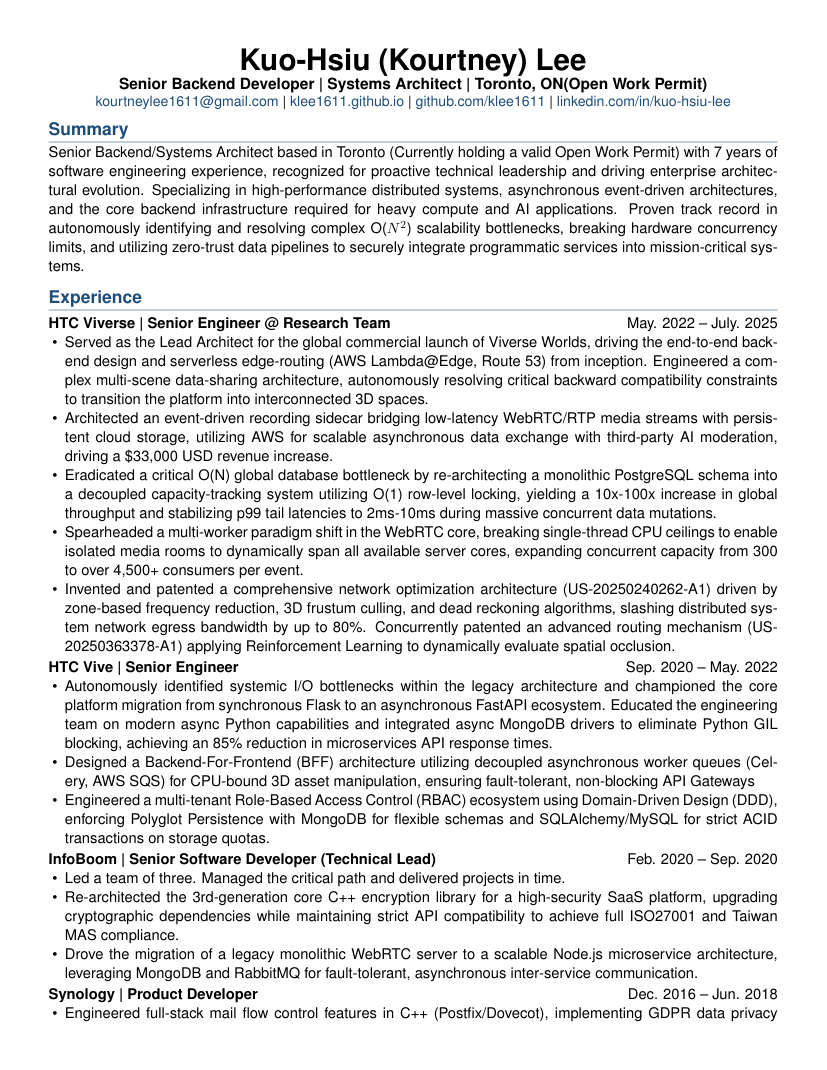
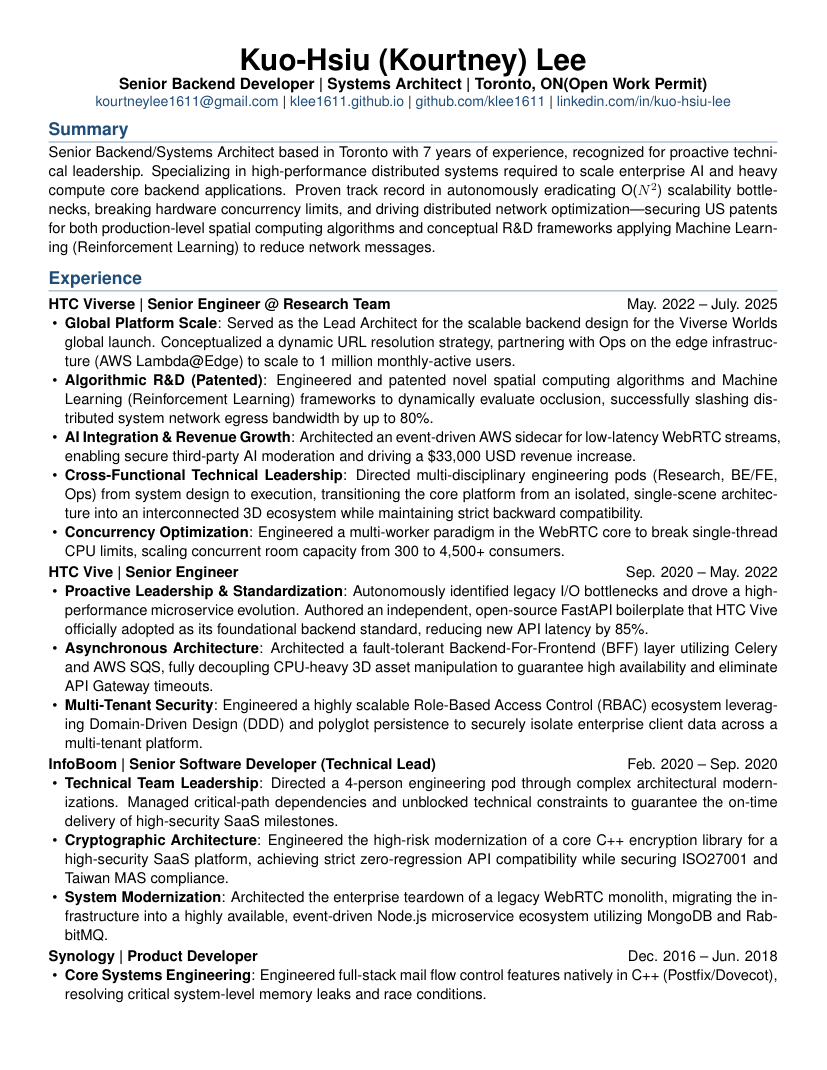
Update resume content

Changed region(s): [[0.0605, 0.1234, 0.9371, 0.9561]]

diff --git a/resume/sections/experience.tex b/resume/sections/experience.tex
@@ -1,28 +1,29 @@
 \section{Experience}
+
 \ResumeSimpleEntry{HTC Viverse \textbar{} Senior Engineer @ Research Team}{May. 2022 -- July. 2025}
 \begin{resumeitems}
-\item Served as the Lead Architect for the global commercial launch of Viverse Worlds, driving the end-to-end backend design and serverless edge-routing (AWS Lambda@Edge, Route 53) from inception. Engineered a complex multi-scene data-sharing architecture, autonomously resolving critical backward compatibility constraints to transition the platform into interconnected 3D spaces.
-\item Architected an event-driven recording sidecar bridging low-latency WebRTC/RTP media streams with persistent cloud storage, utilizing AWS for scalable asynchronous data exchange with third-party AI moderation, driving a \$33,000 USD revenue increase.
-\item Eradicated a critical O(N) global database bottleneck by re-architecting a monolithic PostgreSQL schema into a decoupled capacity-tracking system utilizing O(1) row-level locking, yielding a 10x-100x increase in global throughput and stabilizing p99 tail latencies to 2ms-10ms during massive concurrent data mutations.
-\item Spearheaded a multi-worker paradigm shift in the WebRTC core, breaking single-thread CPU ceilings to enable isolated media rooms to dynamically span all available server cores, expanding concurrent capacity from 300 to over 4,500+ consumers per event.
-\item Invented and patented a comprehensive network optimization architecture (US-20250240262-A1) driven by zone-based frequency reduction, 3D frustum culling, and dead reckoning algorithms, slashing distributed system network egress bandwidth by up to 80\%. Concurrently patented an advanced routing mechanism (US-20250363378-A1) applying Reinforcement Learning to dynamically evaluate spatial occlusion.
+\item \textbf{Global Platform Scale}: Served as the Lead Architect for the scalable backend design for the Viverse Worlds global launch. Conceptualized a dynamic URL resolution strategy, partnering with Ops on the edge infrastructure (AWS Lambda@Edge) to scale to 1 million monthly-active users.
+\item \textbf{Algorithmic R\&D (Patented)}: Engineered and patented novel spatial computing algorithms and Machine Learning (Reinforcement Learning) frameworks to dynamically evaluate occlusion, successfully slashing distributed system network egress bandwidth by up to 80\%.
+\item \textbf{AI Integration \& Revenue Growth}: Architected an event-driven AWS sidecar for low-latency WebRTC streams, enabling secure third-party AI moderation and driving a \$33,000 USD revenue increase.
+\item \textbf{Cross-Functional Technical Leadership}: Directed multi-disciplinary engineering pods (Research, BE/FE, Ops) from system design to execution, transitioning the core platform from an isolated, single-scene architecture into an interconnected 3D ecosystem while maintaining strict backward compatibility.
+\item \textbf{Concurrency Optimization}: Engineered a multi-worker paradigm in the WebRTC core to break single-thread CPU limits, scaling concurrent room capacity from 300 to 4,500+ consumers.
 \end{resumeitems}
 
 \ResumeSimpleEntry{HTC Vive \textbar{} Senior Engineer}{Sep. 2020 -- May. 2022}
 \begin{resumeitems}
-\item Autonomously identified systemic I/O bottlenecks within the legacy architecture and championed the core platform migration from synchronous Flask to an asynchronous FastAPI ecosystem. Educated the engineering team on modern async Python capabilities and integrated async MongoDB drivers to eliminate Python GIL blocking, achieving an 85\% reduction in microservices API response times.
-\item Designed a Backend-For-Frontend (BFF) architecture utilizing decoupled asynchronous worker queues (Celery, AWS SQS) for CPU-bound 3D asset manipulation, ensuring fault-tolerant, non-blocking API Gateways
-\item Engineered a multi-tenant Role-Based Access Control (RBAC) ecosystem using Domain-Driven Design (DDD), enforcing Polyglot Persistence with MongoDB for flexible schemas and SQLAlchemy/MySQL for strict ACID transactions on storage quotas.
+\item \textbf{Proactive Leadership \& Standardization}: Autonomously identified legacy I/O bottlenecks and drove a high-performance microservice evolution. Authored an independent, open-source FastAPI boilerplate that HTC Vive officially adopted as its foundational backend standard, reducing new API latency by 85\%.
+\item \textbf{Asynchronous Architecture}: Architected a fault-tolerant Backend-For-Frontend (BFF) layer utilizing Celery and AWS SQS, fully decoupling CPU-heavy 3D asset manipulation to guarantee high availability and eliminate API Gateway timeouts.
+\item \textbf{Multi-Tenant Security}: Engineered a highly scalable Role-Based Access Control (RBAC) ecosystem leveraging Domain-Driven Design (DDD) and polyglot persistence to securely isolate enterprise client data across a multi-tenant platform.
 \end{resumeitems}
 
 \ResumeSimpleEntry{InfoBoom \textbar{} Senior Software Developer (Technical Lead)}{Feb. 2020 -- Sep. 2020}
 \begin{resumeitems}
-\item Led a team of three. Managed the critical path and delivered projects in time.
-\item Re-architected the 3rd-generation core C++ encryption library for a high-security SaaS platform, upgrading cryptographic dependencies while maintaining strict API compatibility to achieve full ISO27001 and Taiwan MAS compliance.
-\item Drove the migration of a legacy monolithic WebRTC server to a scalable Node.js microservice architecture, leveraging MongoDB and RabbitMQ for fault-tolerant, asynchronous inter-service communication.
+\item \textbf{Technical Team Leadership}: Directed a 4-person engineering pod through complex architectural modernizations. Managed critical-path dependencies and unblocked technical constraints to guarantee the on-time delivery of high-security SaaS milestones.
+\item \textbf{Cryptographic Architecture}: Engineered the high-risk modernization of a core C++ encryption library for a high-security SaaS platform, achieving strict zero-regression API compatibility while securing ISO27001 and Taiwan MAS compliance.
+\item \textbf{System Modernization}: Architected the enterprise teardown of a legacy WebRTC monolith, migrating the infrastructure into a highly available, event-driven Node.js microservice ecosystem utilizing MongoDB and RabbitMQ.
 \end{resumeitems}
 
 \ResumeSimpleEntry{Synology \textbar{} Product Developer}{Dec. 2016 -- Jun. 2018}
 \begin{resumeitems}
-\item Engineered full-stack mail flow control features in C++ (Postfix/Dovecot), implementing GDPR data privacy mechanisms and resolving critical system-level memory leaks and race conditions.
+\item \textbf{Core Systems Engineering}: Engineered full-stack mail flow control features natively in C++ (Postfix/Dovecot), resolving critical system-level memory leaks and race conditions.
 \end{resumeitems}

diff --git a/resume/sections/honors_projects_certifications.tex b/resume/sections/honors_projects_certifications.tex
@@ -1,18 +1,11 @@
 \section{Honors, Projects \& Certifications}
+
 \ResumeSimpleEntry{\href{https://github.com/klee1611/iron-counsel}{Iron Counsel}}{2026}
 \begin{resumeitems}
-  \item Architected an end-to-end Retrieval-Augmented Generation (RAG) backend utilizing LangChain and GCP Firestore's native KNN vector search (384-dimensional embeddings). Engineered a zero-touch CI/CD deployment lifecycle via Terraform and GitHub Actions, automatically building and deploying containerized microservices via GCP Artifact Registry to highly scalable Cloud Run environments.
+  \item Architected an serverless Retrieval-Augmented Generation (RAG) backend utilizing LangChain and GCP Firestore's native KNN vector search (384-dimensional embeddings). Engineered a zero-touch CI/CD deployment lifecycle via Terraform and GitHub Actions, automatically building and deploying containerized microservices via GCP Artifact Registry to highly scalable Cloud Run environments.
 \end{resumeitems}
+
 \ResumeSimpleEntry{Runner-up - HTC Viverse internal AI hackathon}{2023}
 \begin{resumeitems}
-  \item Built an AI-powered customizable NPC system that allows users to define a character's personality, behaviors, and interaction style, then seamlessly deploy the NPC into a metaverse environment.
-\end{resumeitems}
-\ResumeSimpleEntry{\href{https://github.com/klee1611/cookiecutter-fastapi-mongo}{Enterprise FastAPI Boilerplate}}{2021}
-\begin{resumeitems}
-  \item Architected a high-performance, asynchronous RESTful microservice template (FastAPI, Motor, uv) adopted as the foundational backend standard at HTC Vive (16+ GitHub Stars).
-\end{resumeitems}
-\ResumeSimpleEntry{\href{https://www.coursera.org/account/accomplishments/verify/J8NTU2NSSRFR}{Machine Learning - Stanford University \textbar{} Coursera}}{2019}
-\ResumeSimpleEntry{\href{https://github.com/klee1611/leetcode-srs}{LeetCode SRS}}{2026}
-\begin{resumeitems}
-  \item Personal Spaced Repetition System integrating modern AI agent workflows and the Model Context Protocol (MCP).
+  \item Built an AI-powered customizable NPC system enabling dynamic personality and behavioral generation for seamless deployment into metaverse spatial environments.
 \end{resumeitems}

diff --git a/resume/sections/summary.tex b/resume/sections/summary.tex
@@ -1,2 +1,2 @@
 \section{Summary}
-Senior Backend/Systems Architect based in Toronto (Currently holding a valid Open Work Permit) with 7 years of software engineering experience, recognized for proactive technical leadership and driving enterprise architectural evolution. Specializing in high-performance distributed systems, asynchronous event-driven architectures, and the core backend infrastructure required for heavy compute and AI applications. Proven track record in autonomously identifying and resolving complex O($N^2$) scalability bottlenecks, breaking hardware concurrency limits, and utilizing zero-trust data pipelines to securely integrate programmatic services into mission-critical systems.
+Senior Backend/Systems Architect based in Toronto with 7 years of experience, recognized for proactive technical leadership. Specializing in high-performance distributed systems required to scale enterprise AI and heavy compute core backend applications. Proven track record in autonomously eradicating O($N^2$) scalability bottlenecks, breaking hardware concurrency limits, and driving distributed network optimization—securing US patents for both production-level spatial computing algorithms and conceptual R\&D frameworks applying Machine Learning (Reinforcement Learning) to reduce network messages.

diff --git a/resume/sections/patents.tex b/resume/sections/patents.tex
@@ -1,9 +1,9 @@
 \section{Patents}
 \ResumePatentEntry{Method and system for managing position information, and computer readable storage medium}{US-20250363378-A1}{May 22, 2024}
 \begin{resumeitems}
-  \item Reduced message exchange volume in distributed systems using machine learning (reinforcement learning). Regional filings: EP EP24206749.4; CN 202411517088.4; TW 113133801.
+\item Established a R\&D framework applying Machine Learning (Reinforcement Learning) to dynamically evaluate spatial occlusion for distributed message reduction.. (Regional Filings: EP, CN, TW)
 \end{resumeitems}
 \ResumePatentEntry{Method for managing message transmission, control device, and computer readable storage medium}{US-20250240262-A1}{Jun 27, 2024}
 \begin{resumeitems}
-  \item Achieved message reduction in distributed systems through innovative algorithms, with real-world tests showing an 80\% reduction in network message volume. Regional filings: CN 202411455975.3; TW 113131471.
+\item Architected production-grade spatial algorithms (zone-based reduction, frustum culling, dead reckoning), slashing distributed network message volume by 80\%. (Regional Filings: CN, TW)
 \end{resumeitems}

diff --git a/resume/sections/publications_research.tex b/resume/sections/publications_research.tex
@@ -2,6 +2,6 @@
 \ResumeSimpleEntry{\href{https://ieeexplore.ieee.org/document/8397394}{Data-driven IoT applications design for smart city and smart buildings \textbar{} IEEE}}{2017}
 \ResumeSimpleEntry{Research Assistant, NTU Wireless Networking \& Embedded Systems Lab}{2014 -- 2016}
 \begin{resumeitems}
-\item {Project: Information Delivery Middleware for Disaster Management over Heterogenous Interwoven Communication Networks \textbar{} funded by National Science and Technology Council}
-\item {Project: Real-Time High-Performance Miniature Sensing Systems for Sleep Apnea \textbar{} funded by National Science and Technology Council}
+\item {Project: Information Delivery Middleware for Disaster Management over Heterogenous Interwoven Communication Networks \textbar{} Funded by National Science and Technology Council}
+\item {Project: Real-Time High-Performance Miniature Sensing Systems for Sleep Apnea \textbar{} Funded by National Science and Technology Council}
 \end{resumeitems}
